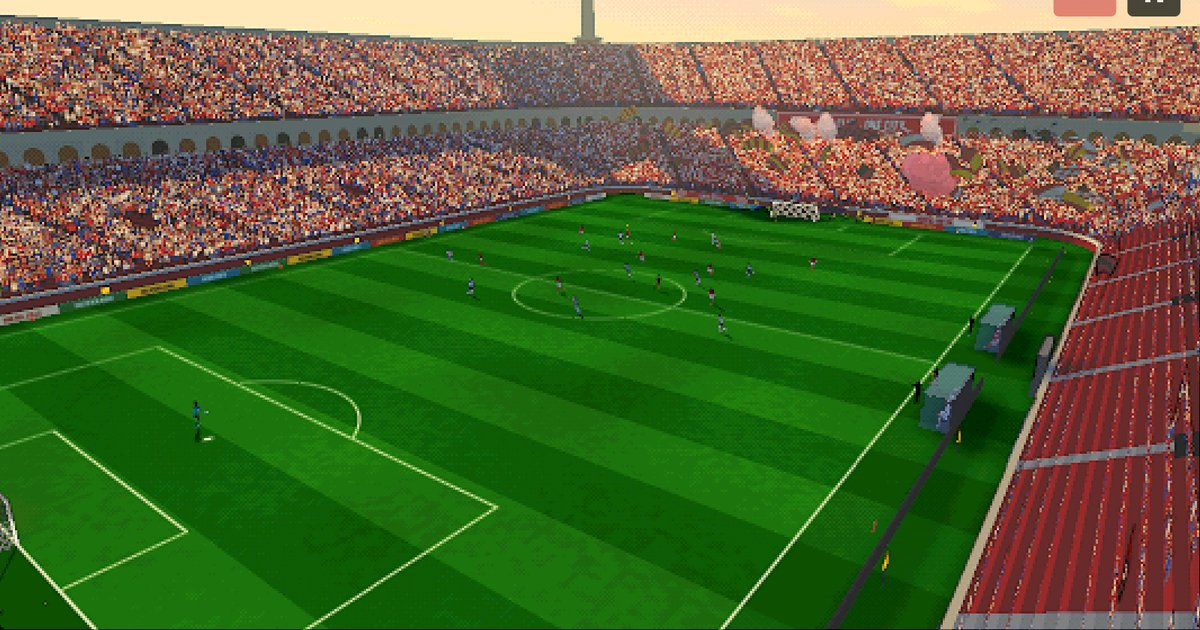
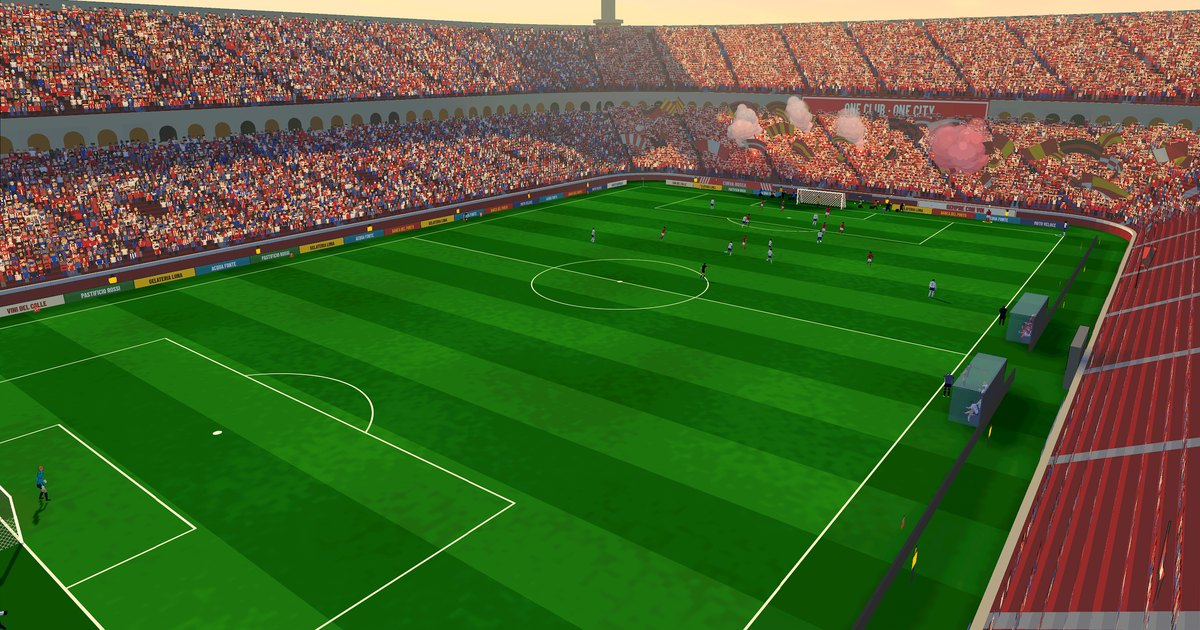
Landing page: sharper hero, shot at full resolution with smooth pixels
Claude-Session: https://claude.ai/code/session_01QuFoqKQm8hLC4ezTxASCno

diff --git a/site/index.html b/site/index.html
@@ -91,7 +91,7 @@ p { margin: 0; }
 .hero { position: relative; isolation: isolate; overflow: hidden; }
 .hero > img {
   position: absolute; inset: 0; width: 100%; height: 100%; object-fit: cover; object-position: 50% 40%;
-  z-index: -2;
+  z-index: -2; image-rendering: auto;
 }
 .hero::after {
   content: ""; position: absolute; inset: 0; z-index: -1;
